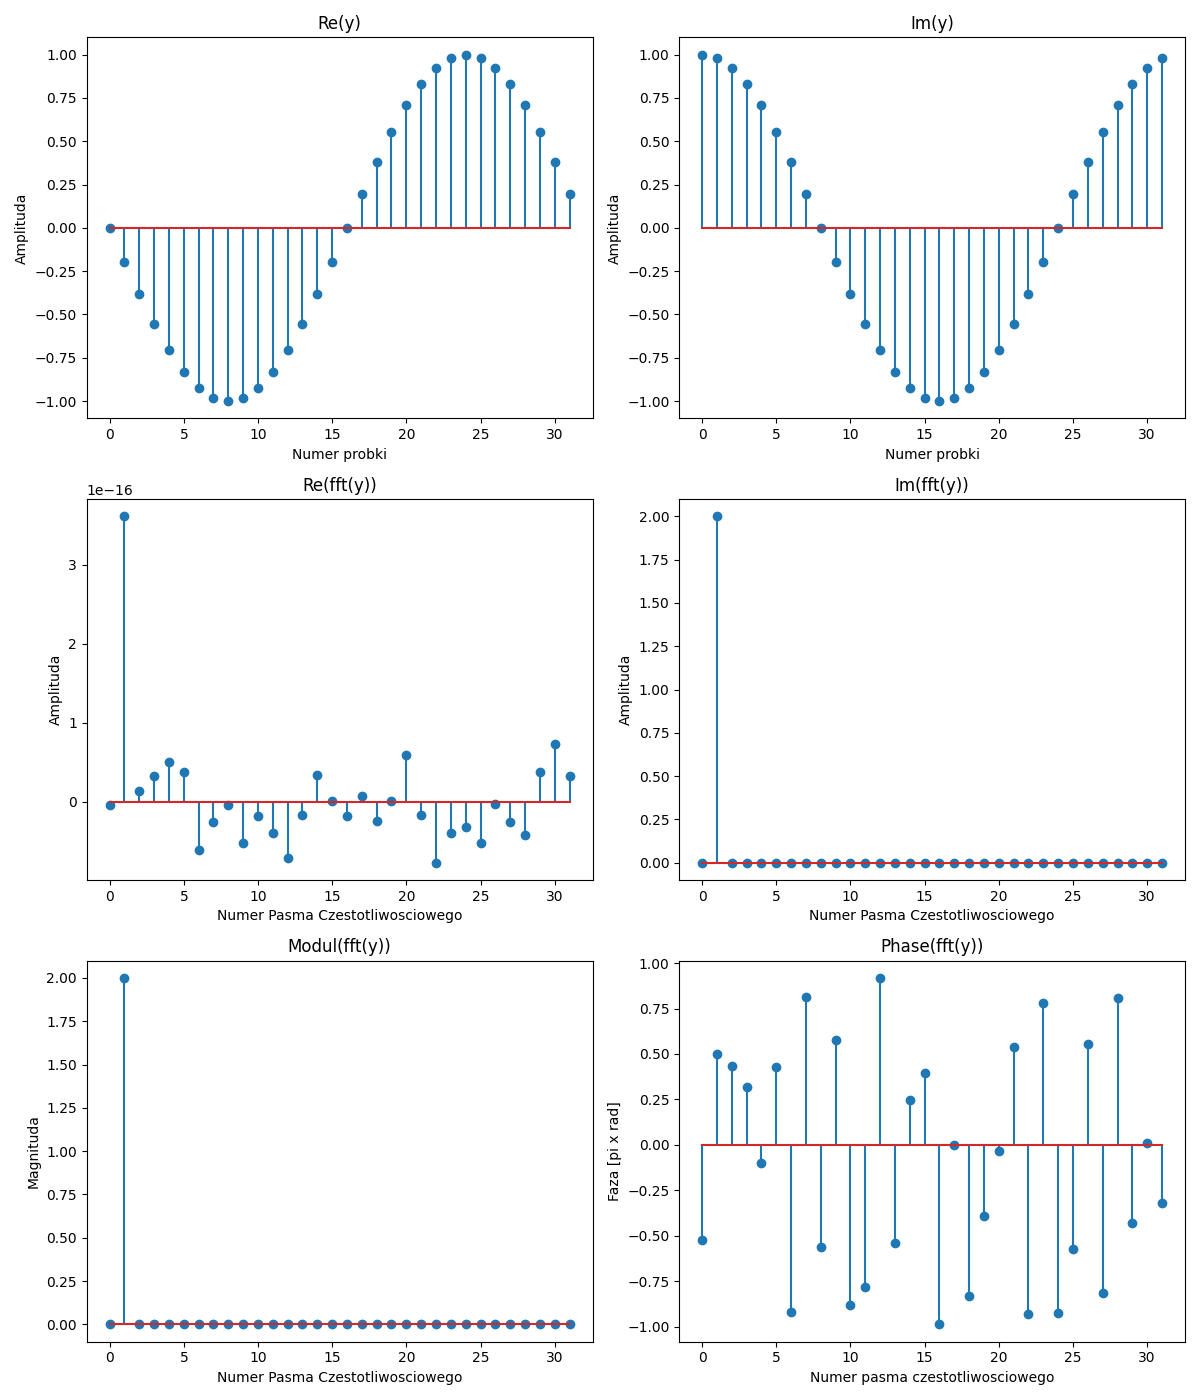
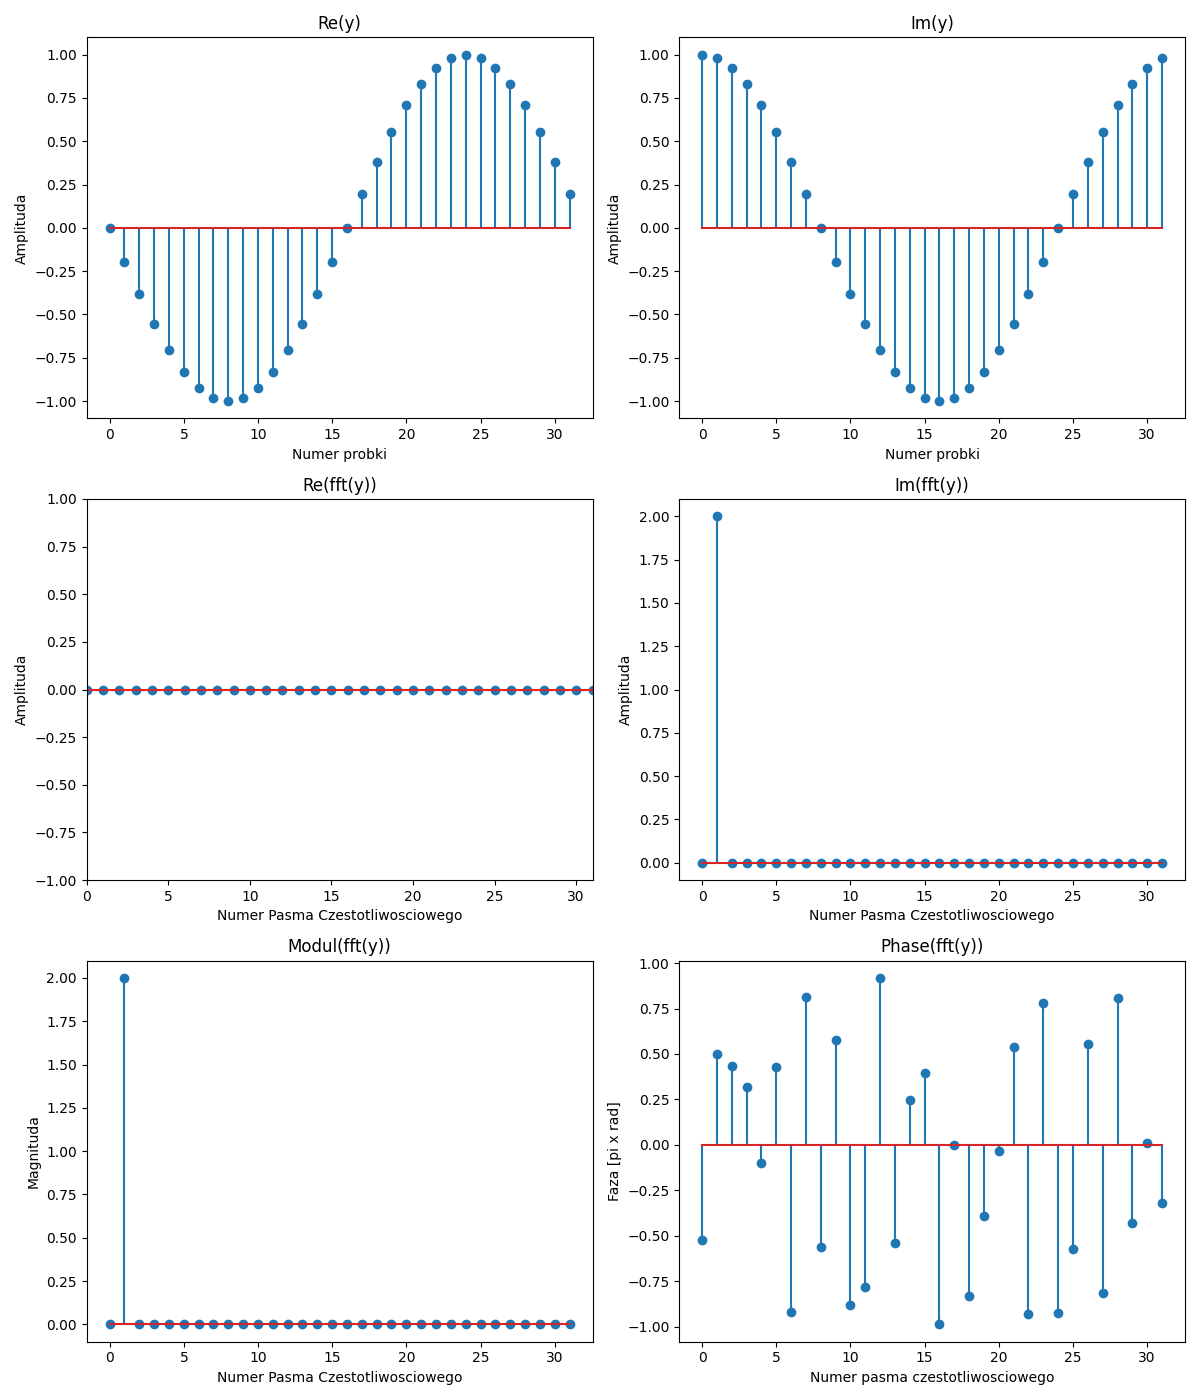
dsfasadf

diff --git a/psio/zajecia3/main.py b/psio/zajecia3/main.py
@@ -326,13 +326,309 @@ from scipy.linalg import dft
 def DFT(y):
     n = len(y)
     dft_matrix = dft(n=n)
-    return dft_matrix
+    return np.dot(dft_matrix, y)
 
 def IDFT(y):
-    pass
+    n = len(y)
+    dft_matrix = dft(n=n)
+    return np.dot(np.linalg.inv(dft_matrix), y)
+
+
+# N = 32
+# f = 1
+# n = np.arange(start=0, stop=N)
+# y = np.sin(2*np.pi*f*n/N)
+# fft = 2*np.fft.fft(y)/N
+# fft_abs = np.abs(fft)
+# fft_ang = np.angle(fft)/np.pi
+# fft_moje = 2*DFT(y)/N
+# fft_moje_abs = np.abs(fft_moje)
+# fft_moje_ang = np.angle(fft_moje)/np.pi
+# ifft_moje = N*IDFT(fft_moje)/2
+#
+# plt.figure(figsize=(12, 14))
+# plt.subplot(3, 2, 1)
+# plt.stem(y)
+# plt.title("y")
+# plt.xlabel("Numer probki")
+# plt.ylabel("Amplituda")
+#
+# plt.subplot(3, 2, 2)
+# plt.stem(ifft_moje)
+# plt.title("y - własna funkcja IDFT")
+# plt.xlabel("Numer probki")
+# plt.ylabel("Amplituda")
+#
+# plt.subplot(3, 2, 3)
+# plt.stem(fft_abs)
+# plt.title("Modul Widma FFT")
+# plt.xlabel("Numer Pasma Czestotliwosciowego")
+# plt.ylabel("Magnituda")
+#
+# plt.subplot(3, 2, 4)
+# plt.stem(fft_moje_abs)
+# plt.title("Modul Widma - Funkcja Wlasna")
+# plt.xlabel("Numer Pasma Czestotliwosciowego")
+# plt.ylabel("Magnituda")
+#
+# plt.subplot(3, 2, 5)
+# plt.stem(fft_ang)
+# plt.title("Faza Widma FFT")
+# plt.xlabel("Numer Pasma Czestotliwosciowego")
+# plt.ylabel("Faza [pi x rad]")
+#
+# plt.subplot(3, 2, 6)
+# plt.stem(fft_moje_ang)
+# plt.title("Faza Widma - Funkcja Wlasna")
+# plt.ylabel("Faza [pi x rad]")
+# plt.xlabel("Numer pasma czestotliwosciowego")
+#
+# plt.tight_layout()
+# plt.savefig("wykres5a.png")
 
 
 
 
 
 
+
+
+
+
+
+
+
+
+
+# N = 32
+# n = np.arange(start=0, stop=N)
+# y1 = np.cos(2*np.pi*n/N + np.pi/4)
+# y1_fft = 2*np.fft.fft(y1)/N
+# y1_fft_abs = np.abs(y1_fft)
+# y1_fft_ang = np.angle(y1_fft)/np.pi
+# y1_fft_moje = 2*DFT(y1)/N
+# y1_fft_abs_moje = np.abs(y1_fft_moje)
+# y1_fft_ang_moje = np.angle(y1_fft_moje)/np.pi
+# y1_ifft_moje = N*IDFT(y1_fft_moje)/2
+#
+# plt.figure(figsize=(12, 14))
+# plt.subplot(3, 2, 1)
+# plt.stem(y1)
+# plt.title("y1")
+# plt.xlabel("Numer probki")
+# plt.ylabel("Amplituda")
+#
+# plt.subplot(3, 2, 2)
+# plt.stem(y1_ifft_moje)
+# plt.title("y1 - własna funkcja IDFT")
+# plt.xlabel("Numer probki")
+# plt.ylabel("Amplituda")
+#
+# plt.subplot(3, 2, 3)
+# plt.stem(y1_fft_abs)
+# plt.title("Modul Widma FFT")
+# plt.xlabel("Numer Pasma Czestotliwosciowego")
+# plt.ylabel("Magnituda")
+#
+# plt.subplot(3, 2, 4)
+# plt.stem(y1_fft_abs_moje)
+# plt.title("Modul Widma - Funkcja Wlasna")
+# plt.xlabel("Numer Pasma Czestotliwosciowego")
+# plt.ylabel("Magnituda")
+#
+# plt.subplot(3, 2, 5)
+# plt.stem(y1_fft_ang)
+# plt.title("Faza Widma FFT")
+# plt.xlabel("Numer Pasma Czestotliwosciowego")
+# plt.ylabel("Faza [pi x rad]")
+#
+# plt.subplot(3, 2, 6)
+# plt.stem(y1_fft_ang_moje)
+# plt.title("Faza Widma - Funkcja Wlasna")
+# plt.ylabel("Faza [pi x rad]")
+# plt.xlabel("Numer pasma czestotliwosciowego")
+#
+# plt.tight_layout()
+# plt.savefig("wykres5b_y1.png")
+
+
+
+# y2 = 0.5*np.cos(4*np.pi*n/N)
+# y2_fft = 2*np.fft.fft(y2)/N
+# y2_fft_abs = np.abs(y2_fft)
+# y2_fft_ang = np.angle(y2_fft)/np.pi
+# y2_fft_moje = 2*DFT(y2)/N
+# y2_fft_abs_moje = np.abs(y2_fft_moje)
+# y2_fft_ang_moje = np.angle(y2_fft_moje)/np.pi
+# y2_ifft_moje = N*IDFT(y2_fft_moje)/2
+#
+# plt.figure(figsize=(12, 14))
+# plt.subplot(3, 2, 1)
+# plt.stem(y2)
+# plt.title("y2")
+# plt.xlabel("Numer probki")
+# plt.ylabel("Amplituda")
+#
+# plt.subplot(3, 2, 2)
+# plt.stem(y2_ifft_moje)
+# plt.title("y2 - własna funkcja IDFT")
+# plt.xlabel("Numer probki")
+# plt.ylabel("Amplituda")
+#
+# plt.subplot(3, 2, 3)
+# plt.stem(y2_fft_abs)
+# plt.title("Modul Widma FFT")
+# plt.xlabel("Numer Pasma Czestotliwosciowego")
+# plt.ylabel("Magnituda")
+#
+# plt.subplot(3, 2, 4)
+# plt.stem(y2_fft_abs_moje)
+# plt.title("Modul Widma - Funkcja Wlasna")
+# plt.xlabel("Numer Pasma Czestotliwosciowego")
+# plt.ylabel("Magnituda")
+#
+# plt.subplot(3, 2, 5)
+# plt.stem(y2_fft_ang)
+# plt.title("Faza Widma FFT")
+# plt.xlabel("Numer Pasma Czestotliwosciowego")
+# plt.ylabel("Faza [pi x rad]")
+#
+# plt.subplot(3, 2, 6)
+# plt.stem(y2_fft_ang_moje)
+# plt.title("Faza Widma - Funkcja Wlasna")
+# plt.ylabel("Faza [pi x rad]")
+# plt.xlabel("Numer pasma czestotliwosciowego")
+#
+# plt.tight_layout()
+# plt.savefig("wykres5b_y2.png")
+
+
+
+# y3 = 0.25*np.cos(8*np.pi*n/N + np.pi/2)
+# y3_fft = 2*np.fft.fft(y3)/N
+# y3_fft_abs = np.abs(y3_fft)
+# y3_fft_ang = np.angle(y3_fft)/np.pi
+# y3_fft_moje = 2*DFT(y3)/N
+# y3_fft_abs_moje = np.abs(y3_fft_moje)
+# y3_fft_ang_moje = np.angle(y3_fft_moje)/np.pi
+# y3_ifft_moje = N*IDFT(y3_fft_moje)/2
+#
+# plt.figure(figsize=(12, 14))
+# plt.subplot(3, 2, 1)
+# plt.stem(y3)
+# plt.title("y3")
+# plt.xlabel("Numer probki")
+# plt.ylabel("Amplituda")
+#
+# plt.subplot(3, 2, 2)
+# plt.stem(y3_ifft_moje)
+# plt.title("y3 - własna funkcja IDFT")
+# plt.xlabel("Numer probki")
+# plt.ylabel("Amplituda")
+#
+# plt.subplot(3, 2, 3)
+# plt.stem(y3_fft_abs)
+# plt.title("Modul Widma FFT")
+# plt.xlabel("Numer Pasma Czestotliwosciowego")
+# plt.ylabel("Magnituda")
+#
+# plt.subplot(3, 2, 4)
+# plt.stem(y3_fft_abs_moje)
+# plt.title("Modul Widma - Funkcja Wlasna")
+# plt.xlabel("Numer Pasma Czestotliwosciowego")
+# plt.ylabel("Magnituda")
+#
+# plt.subplot(3, 2, 5)
+# plt.stem(y3_fft_ang)
+# plt.title("Faza Widma FFT")
+# plt.xlabel("Numer Pasma Czestotliwosciowego")
+# plt.ylabel("Faza [pi x rad]")
+#
+# plt.subplot(3, 2, 6)
+# plt.stem(y3_fft_ang_moje)
+# plt.title("Faza Widma - Funkcja Wlasna")
+# plt.ylabel("Faza [pi x rad]")
+# plt.xlabel("Numer pasma czestotliwosciowego")
+#
+# plt.tight_layout()
+# plt.savefig("wykres5b_y3.png")
+
+
+
+# y4 = y1 + y2 + y3
+# y4_fft = 2*np.fft.fft(y4)/N
+# y4_fft_abs = np.abs(y4_fft)
+# y4_fft_ang = np.angle(y4_fft)/np.pi
+# y4_fft_moje = 2*DFT(y4)/N
+# y4_fft_abs_moje = np.abs(y4_fft_moje)
+# y4_fft_ang_moje = np.angle(y4_fft_moje)/np.pi
+# y4_ifft_moje = N*IDFT(y4_fft_moje)/2
+#
+# plt.figure(figsize=(12, 14))
+# plt.subplot(3, 2, 1)
+# plt.stem(y4)
+# plt.title("y4")
+# plt.xlabel("Numer probki")
+# plt.ylabel("Amplituda")
+#
+# plt.subplot(3, 2, 2)
+# plt.stem(y4_ifft_moje)
+# plt.title("y4 - własna funkcja IDFT")
+# plt.xlabel("Numer probki")
+# plt.ylabel("Amplituda")
+#
+# plt.subplot(3, 2, 3)
+# plt.stem(y4_fft_abs)
+# plt.title("Modul Widma FFT")
+# plt.xlabel("Numer Pasma Czestotliwosciowego")
+# plt.ylabel("Magnituda")
+#
+# plt.subplot(3, 2, 4)
+# plt.stem(y4_fft_abs_moje)
+# plt.title("Modul Widma - Funkcja Wlasna")
+# plt.xlabel("Numer Pasma Czestotliwosciowego")
+# plt.ylabel("Magnituda")
+#
+# plt.subplot(3, 2, 5)
+# plt.stem(y4_fft_ang)
+# plt.title("Faza Widma FFT")
+# plt.xlabel("Numer Pasma Czestotliwosciowego")
+# plt.ylabel("Faza [pi x rad]")
+#
+# plt.subplot(3, 2, 6)
+# plt.stem(y4_fft_ang_moje)
+# plt.title("Faza Widma - Funkcja Wlasna")
+# plt.ylabel("Faza [pi x rad]")
+# plt.xlabel("Numer pasma czestotliwosciowego")
+#
+# plt.tight_layout()
+# plt.savefig("wykres5b_y4.png")
+
+
+
+
+
+
+
+
+
+
+
+
+
+N = 64
+n = np.arange(0, N)
+y = np.sin(2*np.pi * 2.5 * n/N)
+
+
+fig, axs = plt.subplots(3, 3)
+fig.set_size_inches(18, 16)
+ax = axs[0,0]
+ax.stem(y)
+ax.set_title("y")
+ax.set_xlabel()
+ax.set_ylabel()
+
+
+fig.set_tight_layout(tight=True)
+plt.savefig("zadanie6.png")

diff --git a/asd/zajecia2/zad1/main.cpp b/asd/zajecia2/zad1/main.cpp
@@ -9,7 +9,7 @@ void swap(int *tab, int i, int j);
 int main()
 {
     int n;
-    fstream file(R"(In0201.txt)");
+    fstream file(R"(C:\Users\Wojtek\Desktop\zajecia\asd\zajecia2\zad1\In0201.txt)");
     file >> n;
     int *tab = new int[n];
     for(int i=0; i<n; i++)
@@ -20,7 +20,7 @@ int main()
 
     quick_sort(tab, 0, n-1);
 
-    ofstream output(R"(Out0201.txt)");
+    ofstream output(R"(C:\Users\Wojtek\Desktop\zajecia\asd\zajecia2\zad1\Out0201.txt)");
     for(int i=0; i<n; i++)
     {
         output<<tab[i]<<" ";

diff --git a/asd/zajecia2/zad9/main.cpp b/asd/zajecia2/zad9/main.cpp
@@ -9,7 +9,7 @@ bool binary_search(int a, int tab[], int l, int r);
 int main()
 {
     int n;
-    ifstream file(R"(In0209.txt)");
+    ifstream file(R"(C:\Users\Wojtek\Desktop\zajecia\asd\zajecia2\zad9\In0209.txt)");
     file>>n;
     int *A = new int[n];
     int *B = new int[n];
@@ -22,7 +22,7 @@ int main()
     file.close();
 
 
-    ofstream out(R"(Out0209.txt)");
+    ofstream out(R"(C:\Users\Wojtek\Desktop\zajecia\asd\zajecia2\zad9\Out0209.txt)");
     przeciecie(A, B, n, out);
     out.close();
 }

diff --git a/asd/zajecia2/zad6/zadanie6.cpp b/asd/zajecia2/zad6/zadanie6.cpp
@@ -23,7 +23,7 @@ void DFS(int a, vector <vector<int>> &lista, bool *odwiedzony, vector <int> &kol
 int main()
 {
     int n;
-    ifstream file(R"(In0206.txt)");
+    ifstream file(R"(C:\Users\Wojtek\Desktop\zajecia\asd\zajecia2\zad6\In0206.txt)");
     string linia;
 
     getline(file, linia);
@@ -68,7 +68,7 @@ int main()
     }
 
 
-    ofstream out(R"(Out0206.txt)");
+    ofstream out(R"(C:\Users\Wojtek\Desktop\zajecia\asd\zajecia2\zad6\Out0206.txt)");
 
     if(spojny)
         out<<"Graf spójny";

diff --git a/asd/zajecia2/zad2/main.cpp b/asd/zajecia2/zad2/main.cpp
@@ -9,11 +9,11 @@ void tree(ofstream &output, int n, int a);
 int main()
 {
     int n;
-    ifstream input(R"(In0202.txt)");
+    ifstream input(R"(C:\Users\Wojtek\Desktop\zajecia\asd\zajecia2\zad2\In0202.txt)");
     input>>n;
     input.close();
 
-    ofstream output(R"(Out0202.txt)");
+    ofstream output(R"(C:\Users\Wojtek\Desktop\zajecia\asd\zajecia2\zad2\Out0202.txt)");
     tree(output, n, 0);
     output.close();
 }
